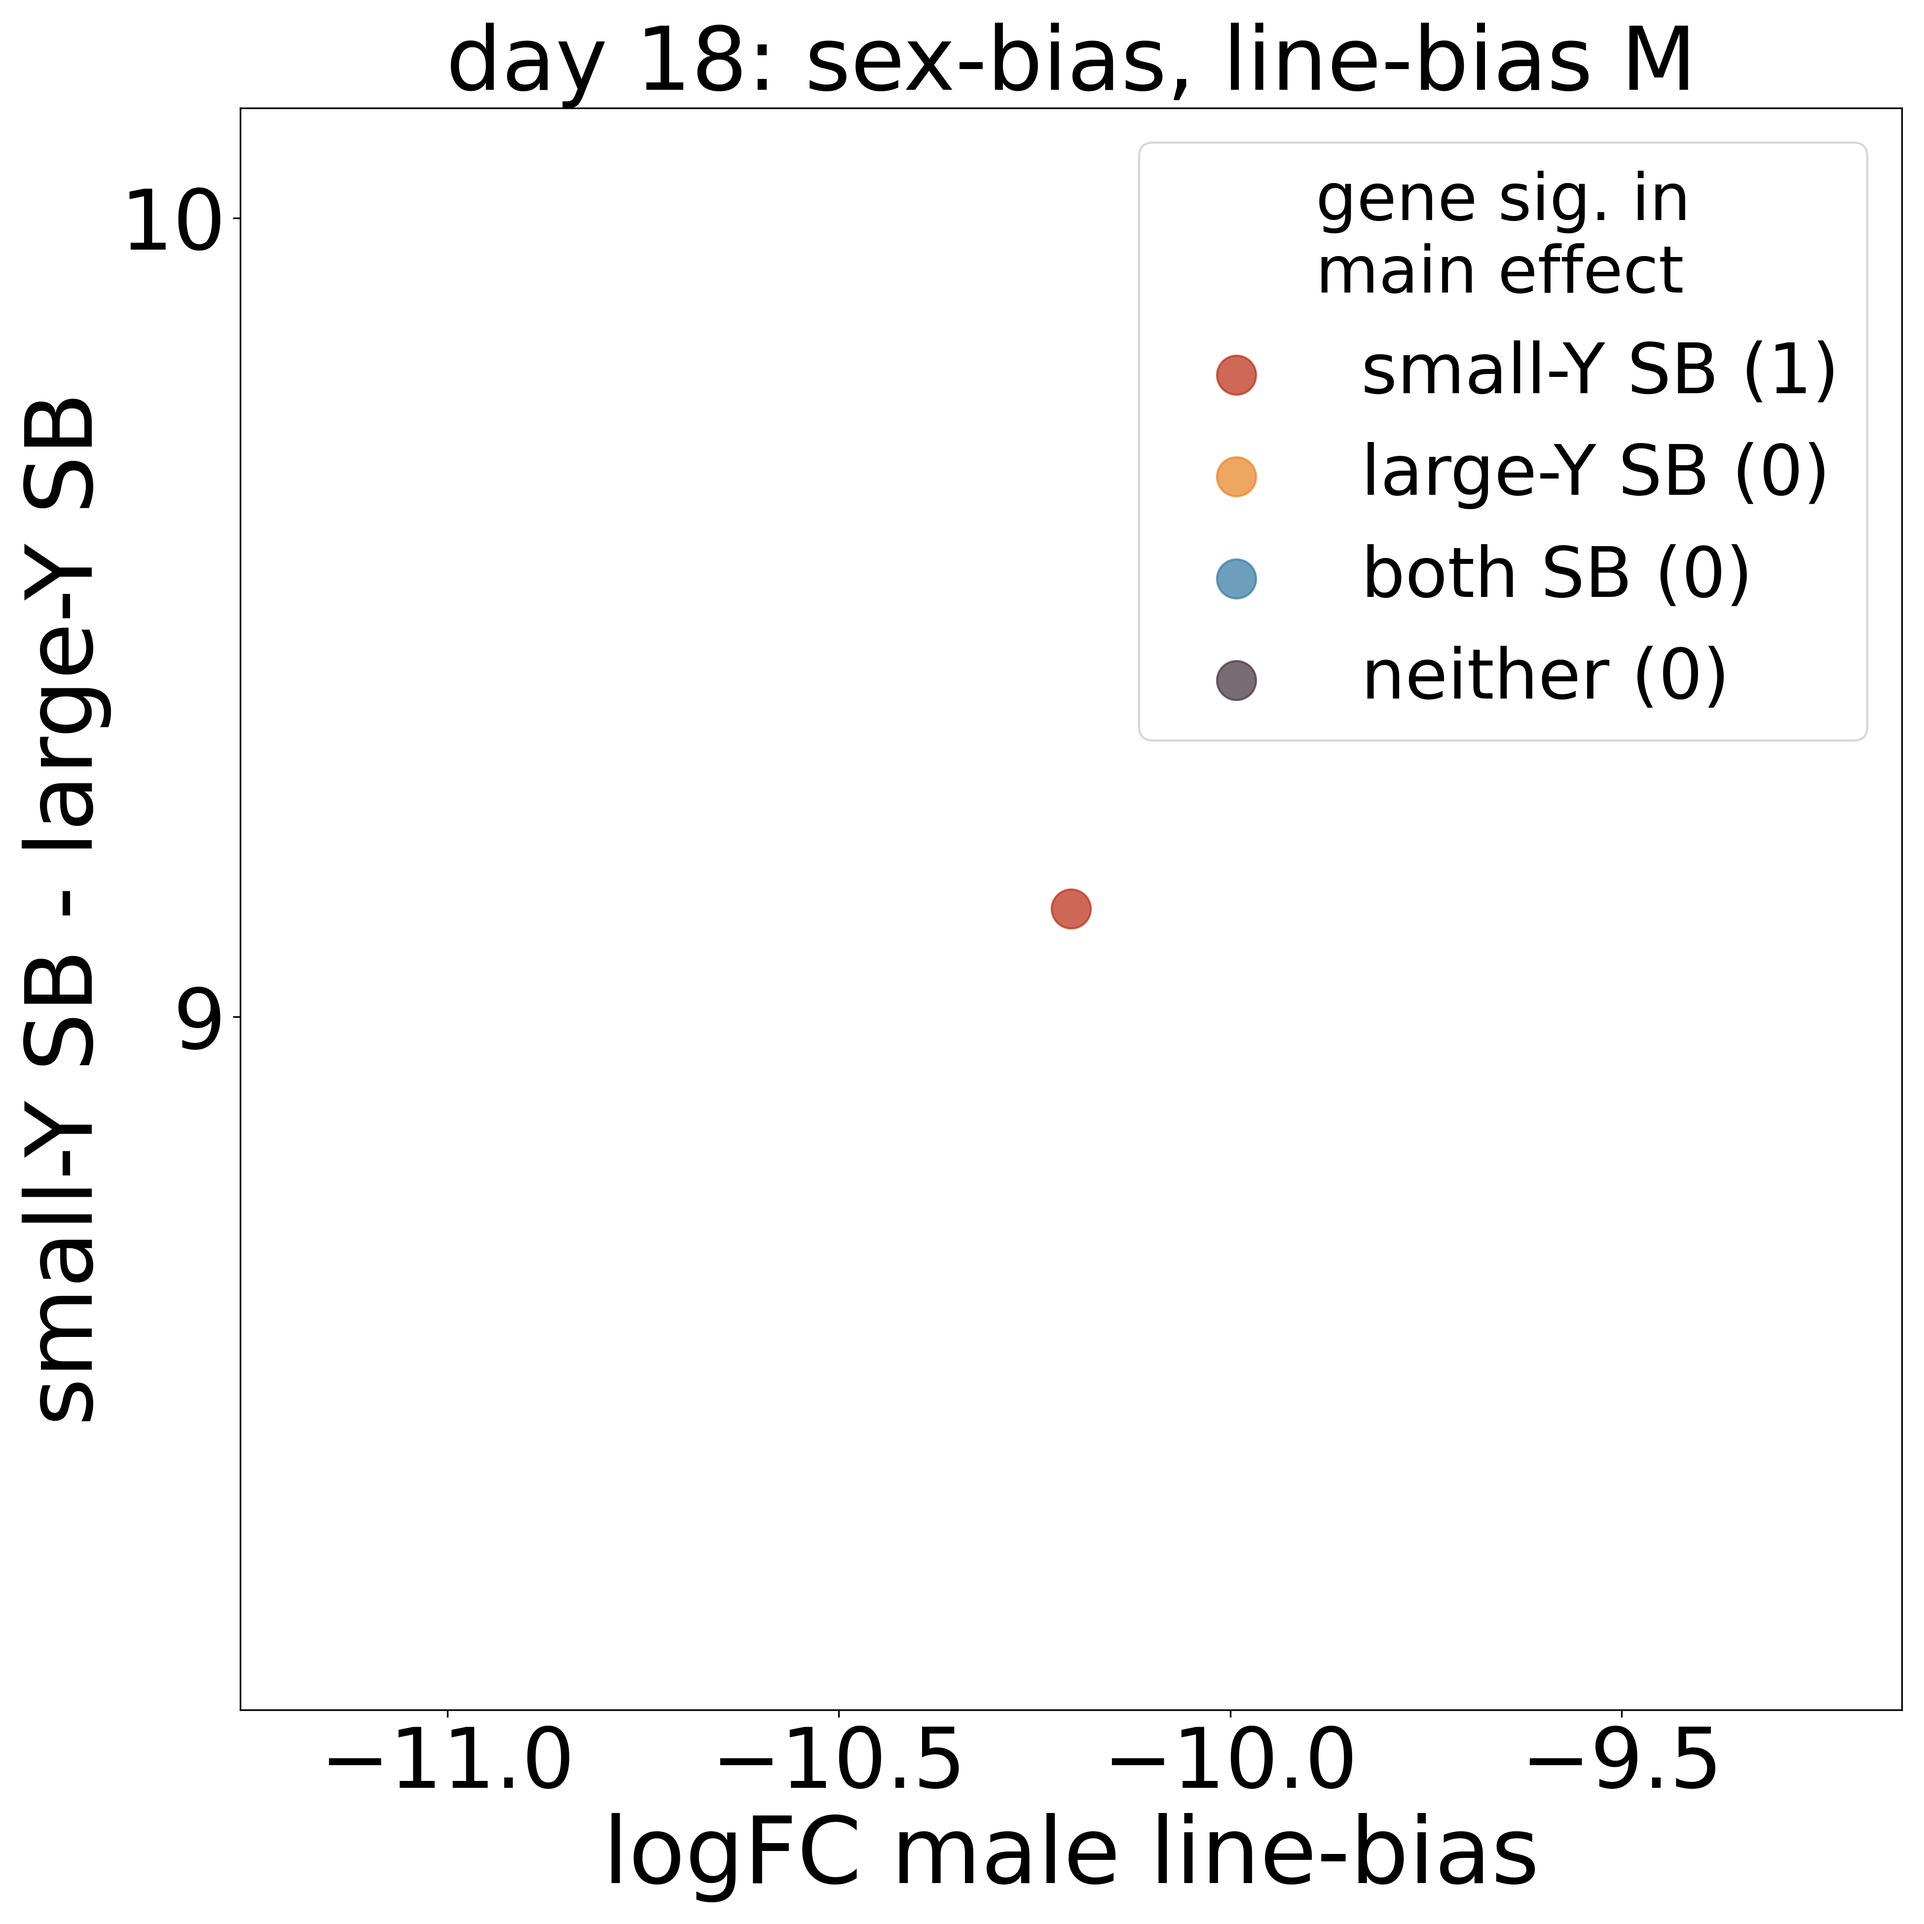
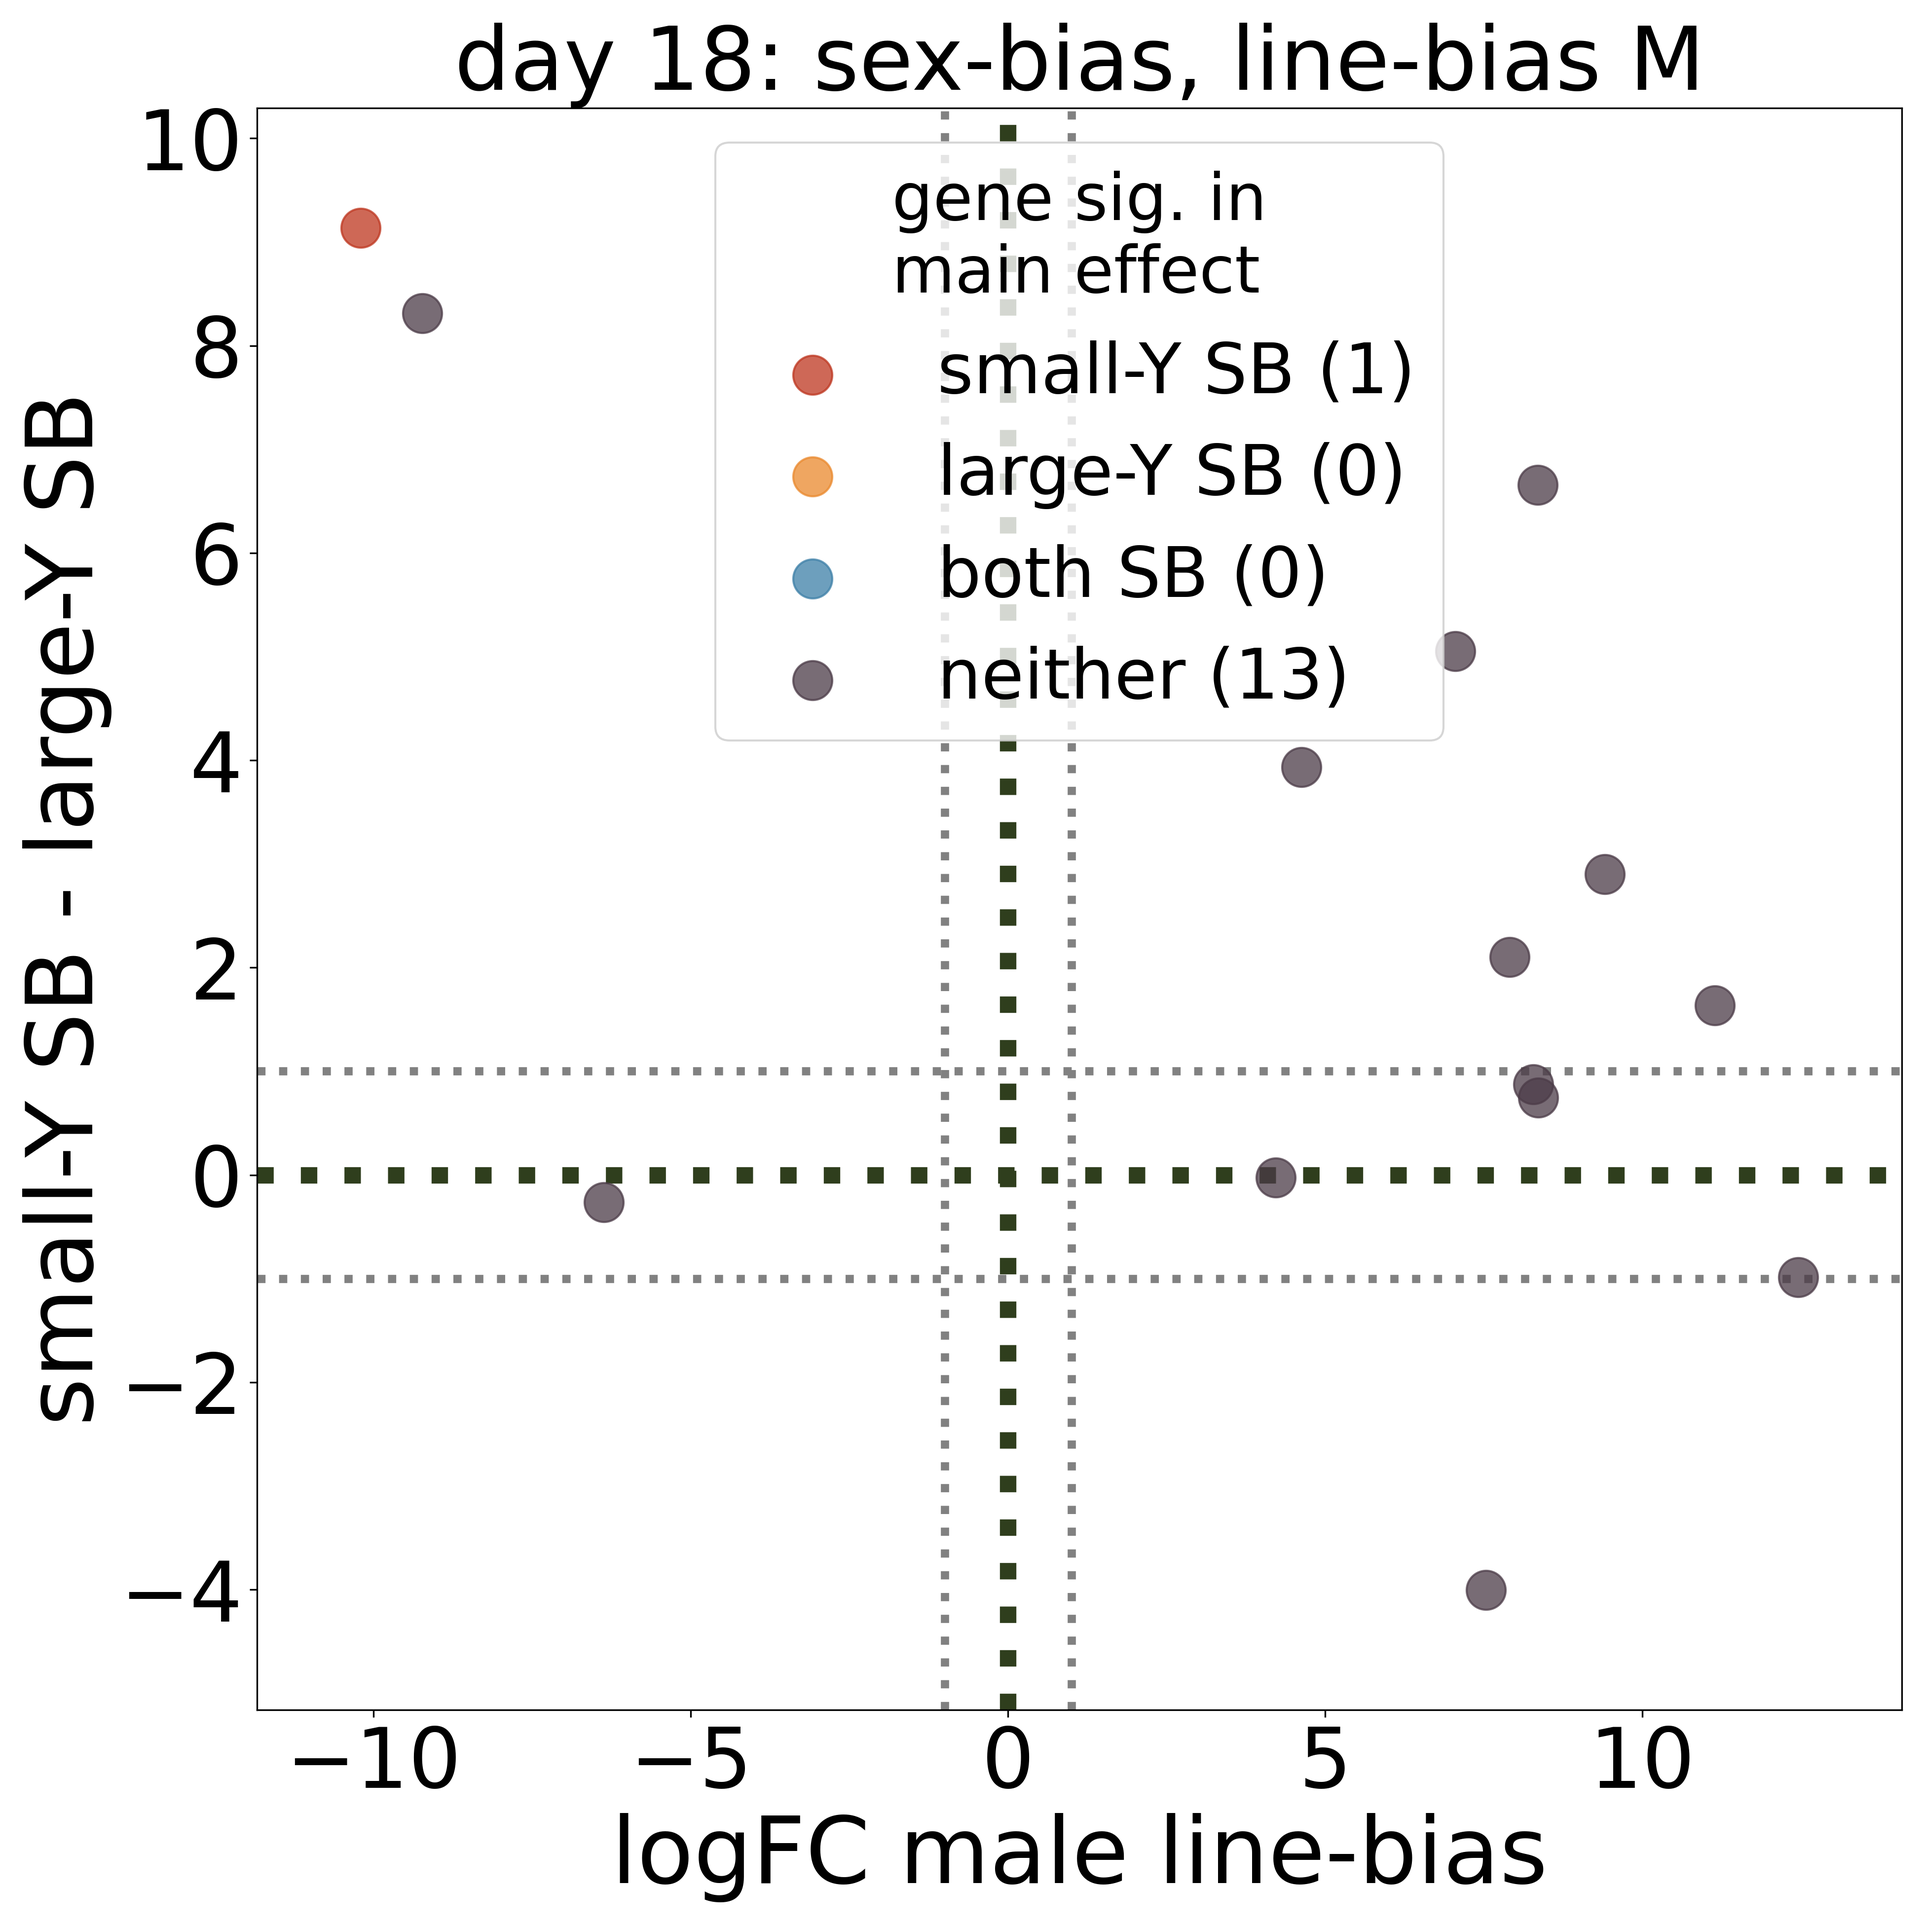
update nonSB legend

diff --git a/src/plot_DE_stuff.py b/src/plot_DE_stuff.py
@@ -860,7 +860,7 @@ def plot_logFC_boxplots(infiles_dict, p_sig = 0.05, min_LFC = -1, only_all_inter
     print(f"plot saved in current working directory as: {plot_filename}")
 
 
-def plot_sig_LFC_diff(tables_diff:list, table_LB:str, p_sig = 0.05, min_LFC = 0, LFC_filename = "sig_LFC_scatter.png", LFC_title = "", excl_geneIDs = [], intersection_nums = False):
+def plot_sig_LFC_diff(tables_diff:list, table_LB:str, p_sig = 0.05, min_LFC = 0, LFC_filename = "sig_LFC_scatter.png", LFC_title = "", excl_geneIDs = [], intersection_nums = False, excl_nonsig=False):
     """ 
     plot a scatterplot of sig. DE genes with LFC values
     """
@@ -898,7 +898,8 @@ def plot_sig_LFC_diff(tables_diff:list, table_LB:str, p_sig = 0.05, min_LFC = 0,
     colors_dict = {"small-Y SB" : "#BD351E" , "large-Y SB" : "#EA882C"}
     colors_dict["both SB"] = "#3C7FA7" # blue
     shared_IDs = {label : [] for label in colors_dict.keys()}
-    colors_dict["neither"] = "#4B3B47" # mauve shadow
+    if excl_nonsig==False:
+        colors_dict["neither"] = "#4B3B47" # mauve shadow
     colors_count = {label : 0 for label in colors_dict.keys()}
 
     excl_count = 0
@@ -930,7 +931,8 @@ def plot_sig_LFC_diff(tables_diff:list, table_LB:str, p_sig = 0.05, min_LFC = 0,
                 colors_count["both SB"]+=1
                 shared_IDs["both SB"].append(geneID)
             elif geneID not in SB1_sig and geneID not in SB3_sig:
-                continue
+                if excl_nonsig:
+                    continue
                 c = colors_dict["neither"]
                 colors_count["neither"]+=1
             
@@ -1713,7 +1715,10 @@ if __name__ == "__main__":
                         table_SB = paths_dict[contrasts_list["lb_M"][0]]
                         excl_geneIDs = excl_line_bias_lists[separation][category]
 
-                        shared_IDs = plot_sig_LFC_diff(tables_diff=tables_diff, table_LB=table_SB, LFC_filename = LFC_filename, excl_geneIDs=excl_geneIDs, LFC_title = plot_title, intersection_nums = True )
+                        if category=="day18":
+                            shared_IDs = plot_sig_LFC_diff(tables_diff=tables_diff, table_LB=table_SB, LFC_filename = LFC_filename, excl_geneIDs=excl_geneIDs, LFC_title = plot_title, intersection_nums = True, excl_nonsig=False )
+                        else:    
+                            shared_IDs = plot_sig_LFC_diff(tables_diff=tables_diff, table_LB=table_SB, LFC_filename = LFC_filename, excl_geneIDs=excl_geneIDs, LFC_title = plot_title, intersection_nums = True, excl_nonsig=True )
 
                         if False:
                             shared_SB_LB_for_time_series["small-Y SB"].extend(shared_IDs["small-Y SB"])
